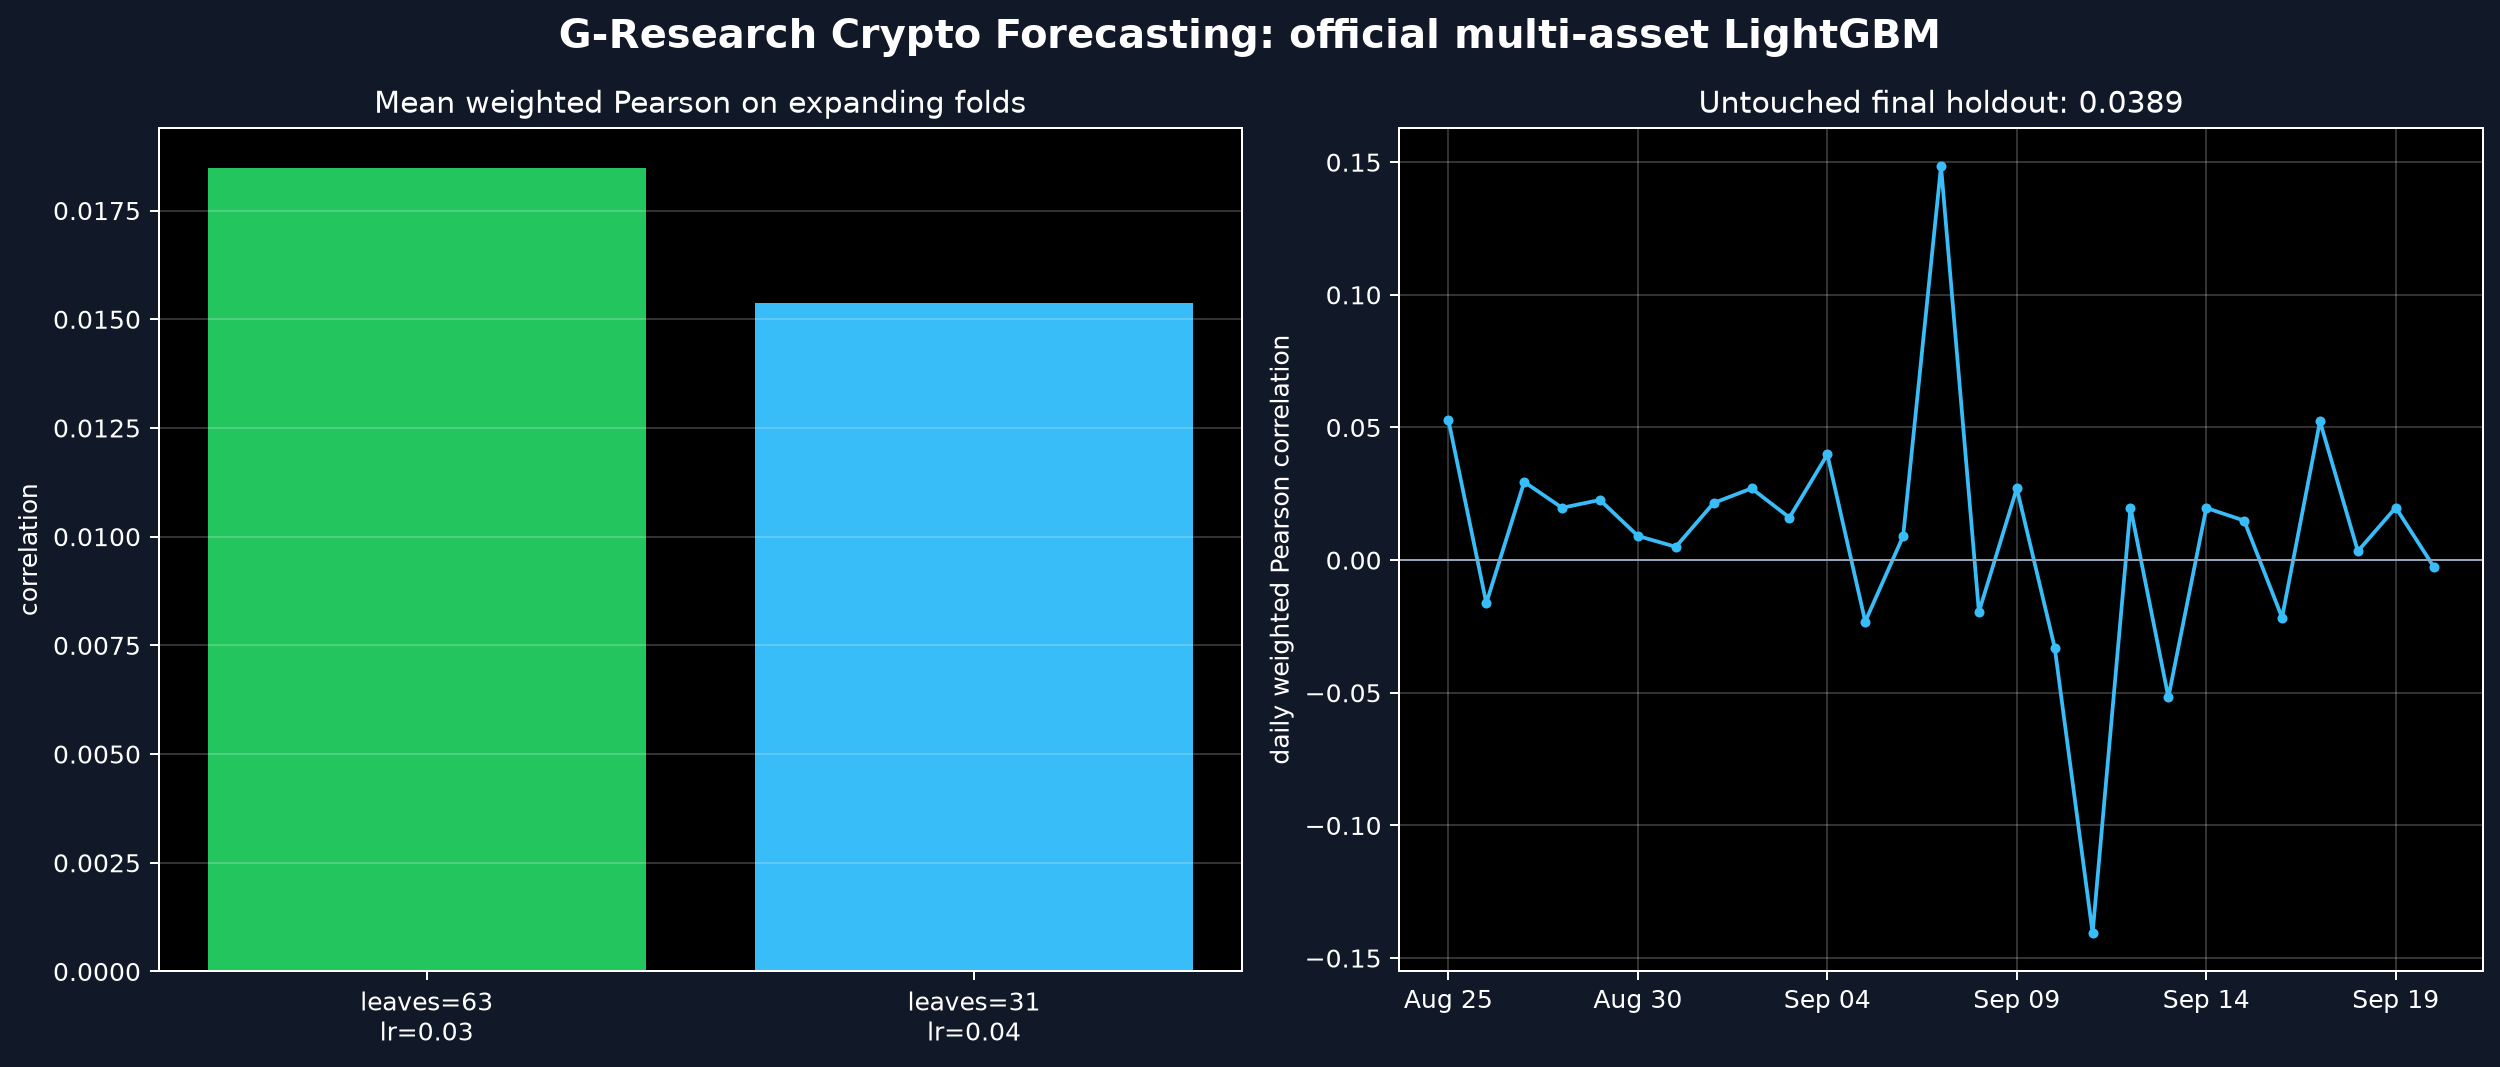
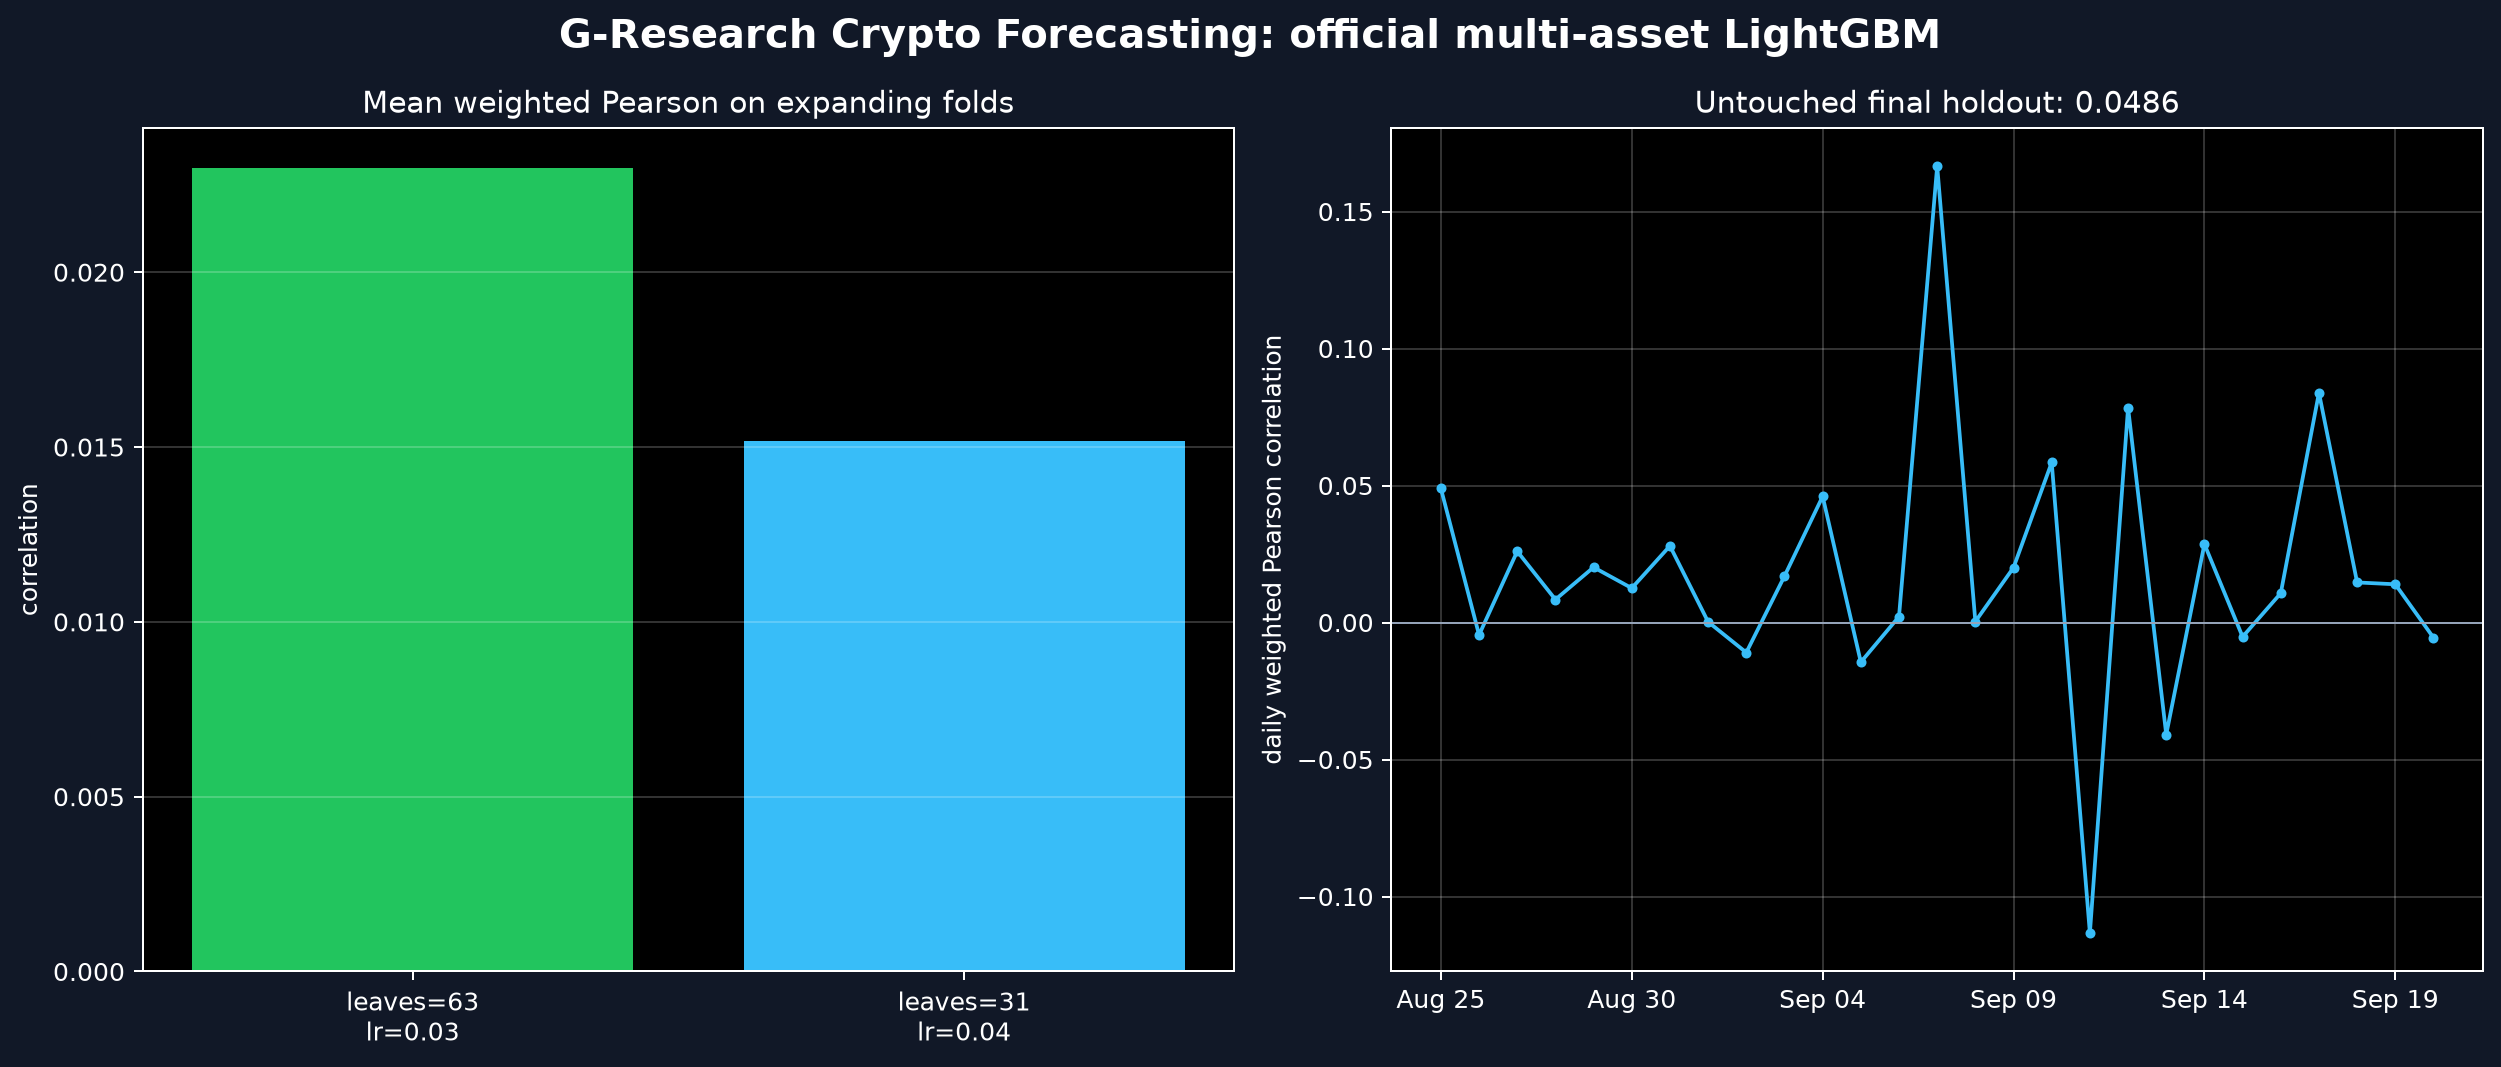
Treat asset identity as categorical

diff --git a/official_solution.py b/official_solution.py
@@ -167,7 +167,12 @@ def fit(config: ModelConfig, train: pd.DataFrame, validation: pd.DataFrame | Non
     model = lgb.LGBMRegressor(objective="regression", learning_rate=config.learning_rate, num_leaves=config.num_leaves,
         min_child_samples=config.min_child_samples, colsample_bytree=config.feature_fraction, reg_lambda=config.reg_lambda,
         n_estimators=config.n_estimators, random_state=RANDOM_SEED, n_jobs=-1, verbosity=-1)
-    arguments: dict[str, object] = {"sample_weight": train["weight"], "callbacks": [lgb.log_evaluation(period=0)]}
+    # Asset_ID is an identity label, not a quantity with meaningful distance.
+    arguments: dict[str, object] = {
+        "sample_weight": train["weight"],
+        "categorical_feature": ["asset_id"],
+        "callbacks": [lgb.log_evaluation(period=0)],
+    }
     if validation is not None:
         arguments["eval_set"] = [(validation[FEATURES], validation["target"])]
         arguments["eval_sample_weight"] = [validation["weight"]]

diff --git a/README.md b/README.md
@@ -22,8 +22,8 @@ archive, then keeps the latest 15% of timestamps as an untouched holdout.
 | Development rows | `3,081,619` |
 | Final holdout rows | `543,876` |
 | Embargo between partitions | `16 minutes` |
-| Mean weighted Pearson during selection | `0.01848` |
-| Final holdout weighted Pearson | `0.03895` |
+| Mean weighted Pearson during selection | `0.02298` |
+| Final holdout weighted Pearson | `0.04856` |
 | Naive one-minute-return holdout score | `-0.00787` |
 
 ![Official multi-asset research report](outputs/official_research_report.png)